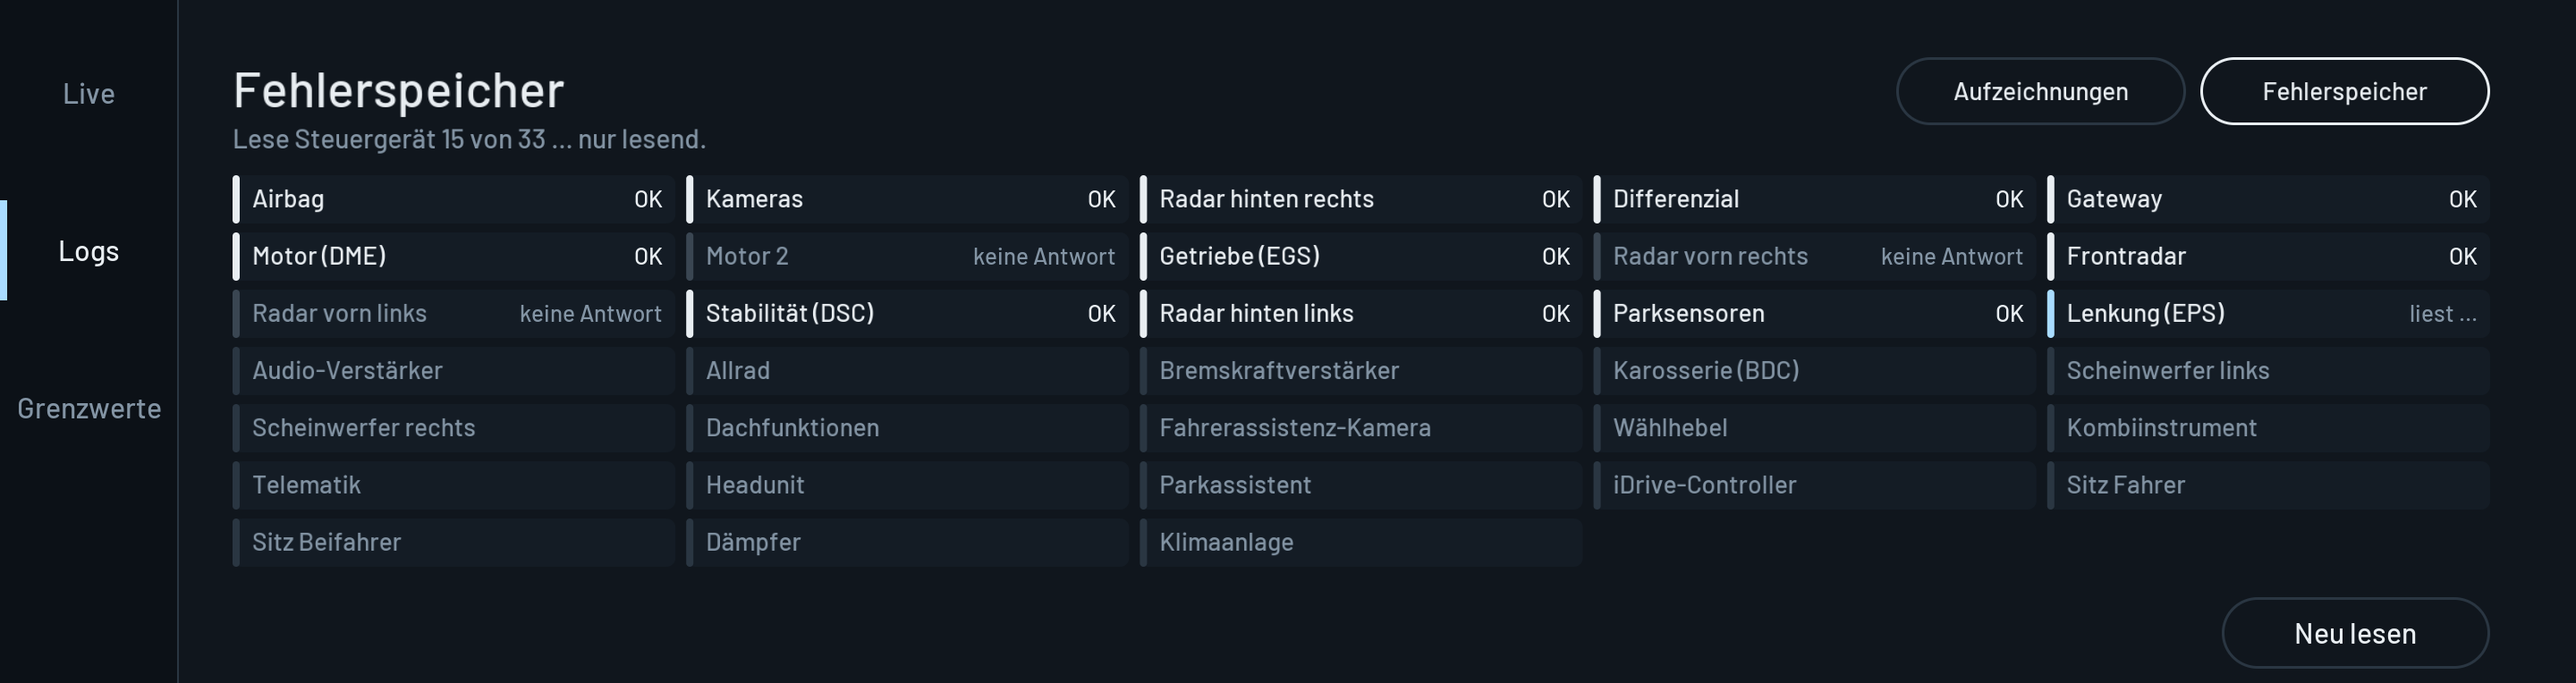
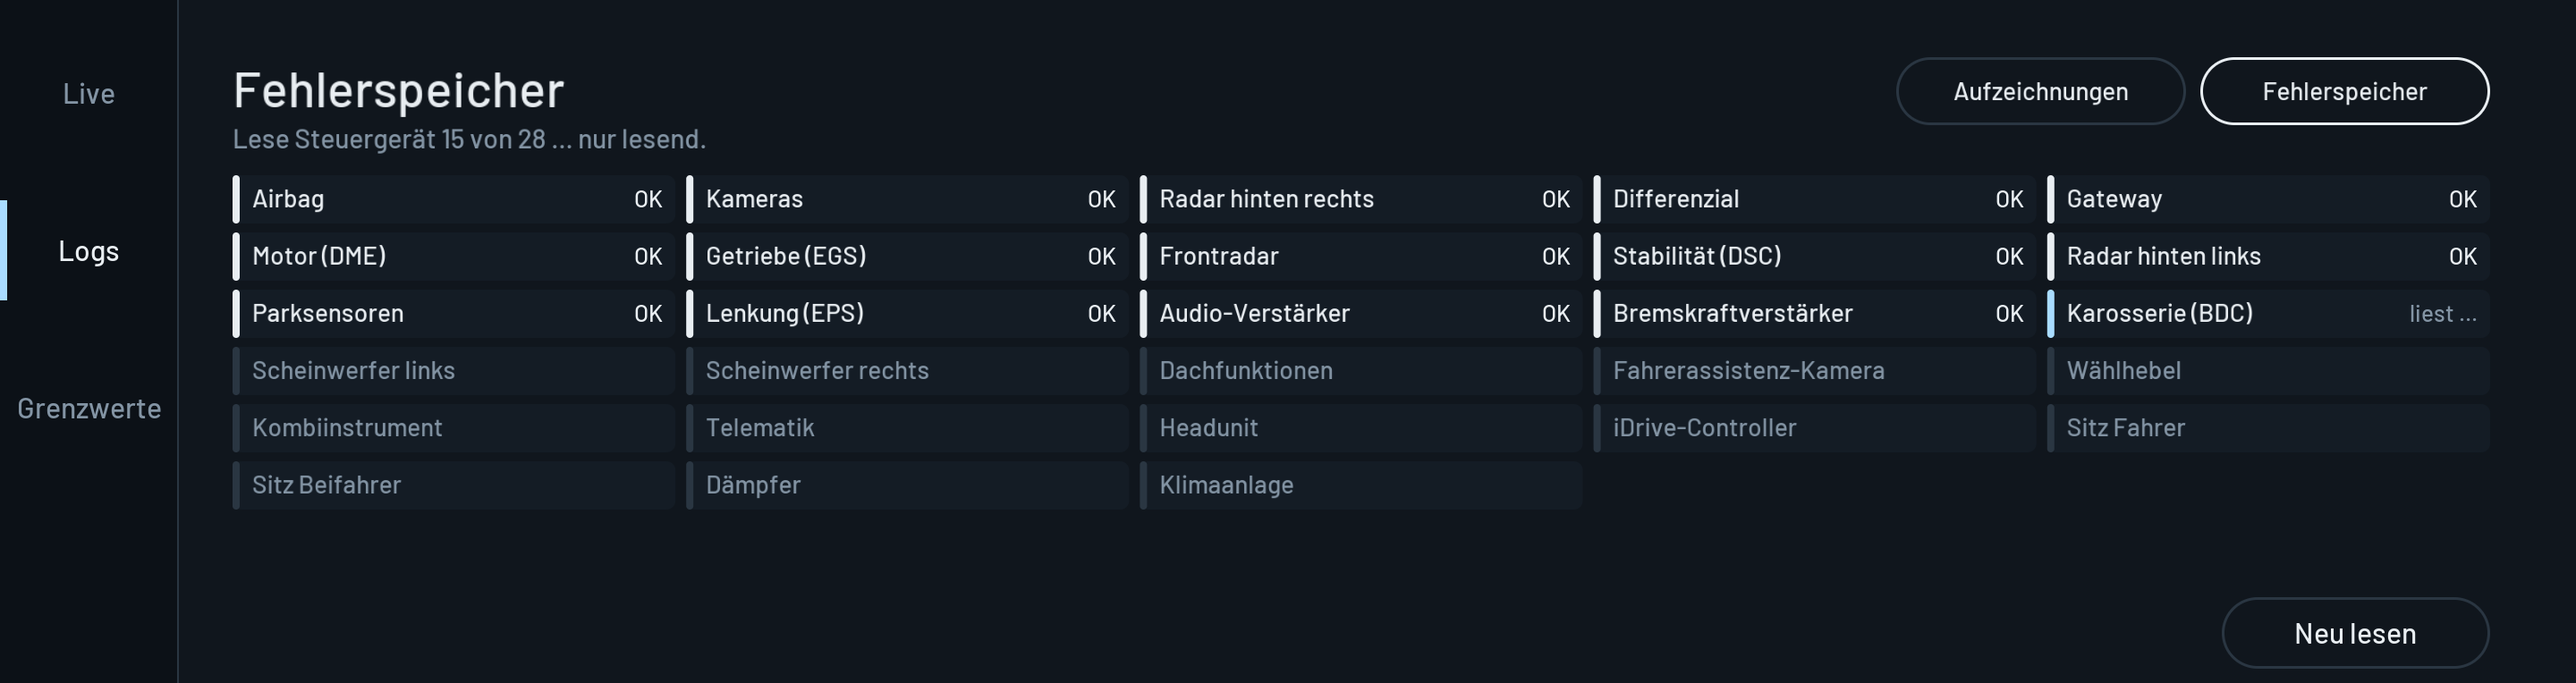
Motordaten 0.8.2: Ablehnungsgrund sichtbar, Tester-Probe für Fehler lesen, nur die 28 Steuergeräte
Im Auto lehnten alle 28 Steuergeräte 19 02 über die Headunit ab (per ENET
liest jede Maske), und die Seite meldete fälschlich 'ohne Fehler'.
- Kacheln zeigen 'abgelehnt 0x..', die Zusammenfassung zählt gelesen und
  abgelehnt getrennt und nennt die Codes mit Bedeutung.
- Vor dem Scan probiert die App die Tester-Adressen F4/F2/F1 an der DME und
  liest mit der ersten, die eine Fehlerantwort bekommt.
- Gefragt werden nur noch die 28 Steuergeräte der G87.

diff --git a/apps/km_motordaten/src/motordaten.js b/apps/km_motordaten/src/motordaten.js
@@ -225,30 +225,62 @@ class Motordaten extends ListApp {
         const scan = Faults.addresses().map((addr) => ({ addr, name: Faults.unitName(addr), state: 'wait', entries: [] }));
         const show = (more) => d.setExtra({ faults: Object.assign({ reading: true, scan: scan.slice() }, more) });
         show({ progress: 0 });
+        const tester = this._tasu.tester;
         const open = this._gateway === 'open' ? Promise.resolve() : this._tasu.open().then(() => { this._gateway = 'open'; });
+        let probe = '';
         open
-            .then(() => scan.reduce((p, unit, k) => p.then(() => {
-                unit.state = 'read';
-                show({ progress: k + 1 });
-                return this._tasu.faultsOf(unit.addr, FAULT_MASK).then((u) => {
-                    if (u && u[0] === 0x59) {
-                        unit.entries = Faults.parse(new Map([[unit.addr, u]])).entries;
-                        unit.state = unit.entries.length ? 'faults' : 'ok';
-                    } else {
-                        unit.state = u && u[0] === 0x7F ? 'refused' : 'none';
-                    }
-                }, () => { unit.state = 'none'; });
-            }), Promise.resolve()))
+            .then(() => this._faultTester())
+            .then((p) => {
+                probe = p.note;
+                this._tasu.useTester(p.tester);
+                return scan.reduce((chain, unit, k) => chain.then(() => {
+                    unit.state = 'read';
+                    show({ progress: k + 1 });
+                    return this._tasu.faultsOf(unit.addr, FAULT_MASK).then((u) => {
+                        if (u && u[0] === 0x59) {
+                            unit.entries = Faults.parse(new Map([[unit.addr, u]])).entries;
+                            unit.state = unit.entries.length ? 'faults' : 'ok';
+                        } else if (u && u[0] === 0x7F) {
+                            unit.state = 'refused';
+                            unit.nrc = u[2];
+                        } else {
+                            unit.state = 'none';
+                        }
+                    }, () => { unit.state = 'none'; });
+                }), Promise.resolve());
+            })
             .then(() => {
+                this._tasu.useTester(tester);
                 const entries = [].concat(...scan.map((u) => u.entries));
-                const answered = scan.filter((u) => u.state === 'ok' || u.state === 'faults' || u.state === 'refused').length;
-                logger.info(`faults: ${answered}/${scan.length} units, ${entries.map((e) => `${e.ecu.toString(16)}:${e.code}/${e.status}`).join(' ')}`);
+                const read = scan.filter((u) => u.state === 'ok' || u.state === 'faults').length;
+                const refused = scan.filter((u) => u.state === 'refused');
+                const nrcs = Array.from(new Set(refused.map((u) => u.nrc)));
+                logger.info(`faults: read ${read}, refused ${refused.length} (${nrcs.map((n) => n.toString(16)).join(',')}), ${probe}; ` +
+                    entries.map((e) => `${e.ecu.toString(16)}:${e.code}/${e.status}`).join(' '));
                 const note = this._afterClear ? `${this._afterClear}${entries.length ? `Noch ${entries.length} Einträge.` : 'Keine Einträge mehr.'}` : null;
                 this._afterClear = null;
-                d.setExtra({ faults: { scan, units: answered, entries, at: clock.wall(), note } });
+                d.setExtra({ faults: { scan, units: read, refused: refused.length, nrcs, probe, entries, at: clock.wall(), note } });
             }, (e) => {
+                this._tasu.useTester(tester);
                 d.setExtra({ faults: { scan, error: (e && e.message) || String(e) } });
             });
+    }
+
+    /* The tester address the gateway lets read the fault memory: each tried on the DME until one gets a
+     * fault reply; else the first. { tester, note } (what each answered, for the log). */
+    _faultTester() {
+        const tried = [];
+        const next = (k) => {
+            if (k >= TESTERS.length) {
+                return { tester: TESTERS[0], note: tried.join(' ') };
+            }
+            this._tasu.useTester(TESTERS[k]);
+            return this._tasu.faultsOf(0x12, FAULT_MASK).then((u) => {
+                tried.push(`${TESTERS[k].toString(16)}:${u ? u.slice(0, 3).map((b) => b.toString(16)).join('') : '-'}`);
+                return u && u[0] === 0x59 ? { tester: TESTERS[k], note: tried.join(' ') } : next(k + 1);
+            }, () => next(k + 1));
+        };
+        return next(0);
     }
 
     /* Why the fault memory may not be cleared now, or null: only with the engine off (its speed measured

diff --git a/apps/km_motordaten/src/dash.js b/apps/km_motordaten/src/dash.js
@@ -378,6 +378,12 @@ function segments(rec, page, ui) {
     SEGMENTS.forEach((t) => button(rec, t, ui, { size: 28, primary: t.page === page }));
 }
 
+const hexByte = (n) => `0x${n.toString(16).toUpperCase().padStart(2, '0')}`;
+/* A refusal's code with its meaning (ISO 14229). */
+const NRC_WORDS = { 0x11: 'Dienst nicht unterstützt', 0x12: 'nicht unterstützt', 0x13: 'falsche Länge', 0x22: 'Bedingungen nicht erfüllt',
+    0x31: 'außerhalb des Bereichs', 0x33: 'gesperrt', 0x7E: 'nicht in dieser Sitzung', 0x7F: 'nicht in dieser Sitzung' };
+const nrcText = (n) => `${hexByte(n)} ${NRC_WORDS[n] || ''}`.trim();
+
 const STATE_COLOR = { aktiv: C.limit, gespeichert: C.ice, 'vorläufig': C.dim, Historie: C.dim };
 /* A unit's tile: colour of its marker and words, by the state of its reading. */
 const TILE = {
@@ -385,7 +391,7 @@ const TILE = {
     read: { color: C.ice, text: 'liest …' },
     ok: { color: C.text, text: 'OK' },
     faults: { color: C.limit, text: null },
-    refused: { color: C.dim, text: 'nicht lesbar' },
+    refused: { color: C.dim, text: 'abgelehnt' },
     none: { color: '#3A4652', text: 'keine Antwort' }
 };
 
@@ -403,13 +409,15 @@ function faultsPage(rec, ui, extra) {
         note = `Lese Steuergerät ${f.progress || 0} von ${scan.length} … nur lesend.`;
     } else if (f.error) {
         note = `Lesen fehlgeschlagen: ${f.error}. Zündung an?`;
+    } else if (f.units === 0 && f.refused) {
+        note = `${f.refused} Steuergeräte erreicht, aber Fehler lesen abgelehnt (${(f.nrcs || []).map(nrcText).join(', ')}).`;
     } else if (f.units === 0) {
         note = 'Keine Antwort der Steuergeräte. Zündung an? Dann Neu lesen.';
     } else if (f.units === undefined) {
         note = 'Liest die Fehlerspeicher aller Steuergeräte, nur lesend.';
     } else {
         const withFaults = scan.filter((u) => u.state === 'faults').length;
-        note = `${f.units} von ${scan.length} Steuergeräten geantwortet, ` +
+        note = `${f.units} von ${scan.length} Steuergeräten gelesen${f.refused ? `, ${f.refused} abgelehnt` : ''}, ` +
             `${withFaults === 0 ? 'alle ohne Fehler' : withFaults === 1 ? '1 mit Fehlern' : `${withFaults} mit Fehlern`}` +
             (f.at ? ` · gelesen ${two(f.at.getUTCHours())}:${two(f.at.getUTCMinutes())}` : '');
     }
@@ -428,7 +436,10 @@ function faultsPage(rec, ui, extra) {
             rec.strokeRoundRect(b.x - 4, b.y - 4, b.w + 8, b.h + 8, 12, 4, C.ice);
         }
         rec.roundRect(b.x, b.y, 8, b.h, 4, look.color);
-        const words = look.text === null ? `${u.entries.length} ${u.entries.length === 1 ? 'Fehler' : 'Fehler'}` : look.text;
+        let words = look.text === null ? `${u.entries.length} Fehler` : look.text;
+        if (u.state === 'refused' && typeof u.nrc === 'number') {
+            words = `abgelehnt ${hexByte(u.nrc)}`;
+        }
         const ww = words ? rec.textWidth(words, 26, { font: 'label' }) : 0;
         rec.clip(b.x, b.y, b.w - ww - 28, b.h);
         rec.text(u.name, b.x + 22, b.y + 36, 28, u.state === 'none' || u.state === 'wait' ? C.dim : C.text, { font: 'label' });

diff --git a/apps/km_motordaten/src/faults.js b/apps/km_motordaten/src/faults.js
@@ -20,8 +20,7 @@ const UNITS = {
     0x6E: 'Sitz Beifahrer', 0x76: 'Dämpfer', 0x78: 'Klimaanlage'
 };
 
-/* The units a G87 answers the fault memory with (ENET, docs/g87-s58.md), and the others named here:
- * asked one by one when the gateway does not pass a request to all units. */
+/* The units a G87 answers the fault memory with (ENET, docs/g87-s58.md), asked one by one. */
 const KNOWN = [0x01, 0x06, 0x08, 0x0F, 0x10, 0x12, 0x18, 0x21, 0x29, 0x2A, 0x2C, 0x30, 0x37, 0x39, 0x40, 0x43, 0x44,
     0x56, 0x5D, 0x5E, 0x60, 0x61, 0x63, 0x67, 0x6D, 0x6E, 0x76, 0x78];
 
@@ -65,8 +64,9 @@ function parse(replies) {
     return { units: replies.size, entries };
 }
 
+/* The units asked: the G87's own (the others named above don't answer in it). */
 function addresses() {
-    return Array.from(new Set(KNOWN.concat(Object.keys(UNITS).map(Number)))).sort((a, b) => a - b);
+    return KNOWN.slice();
 }
 
 module.exports = { parse, unitName, stateOf, addresses, UNITS };

diff --git a/shared/faults.js b/shared/faults.js
@@ -20,8 +20,7 @@ const UNITS = {
     0x6E: 'Sitz Beifahrer', 0x76: 'Dämpfer', 0x78: 'Klimaanlage'
 };
 
-/* The units a G87 answers the fault memory with (ENET, docs/g87-s58.md), and the others named here:
- * asked one by one when the gateway does not pass a request to all units. */
+/* The units a G87 answers the fault memory with (ENET, docs/g87-s58.md), asked one by one. */
 const KNOWN = [0x01, 0x06, 0x08, 0x0F, 0x10, 0x12, 0x18, 0x21, 0x29, 0x2A, 0x2C, 0x30, 0x37, 0x39, 0x40, 0x43, 0x44,
     0x56, 0x5D, 0x5E, 0x60, 0x61, 0x63, 0x67, 0x6D, 0x6E, 0x76, 0x78];
 
@@ -65,8 +64,9 @@ function parse(replies) {
     return { units: replies.size, entries };
 }
 
+/* The units asked: the G87's own (the others named above don't answer in it). */
 function addresses() {
-    return Array.from(new Set(KNOWN.concat(Object.keys(UNITS).map(Number)))).sort((a, b) => a - b);
+    return KNOWN.slice();
 }
 
 module.exports = { parse, unitName, stateOf, addresses, UNITS };
